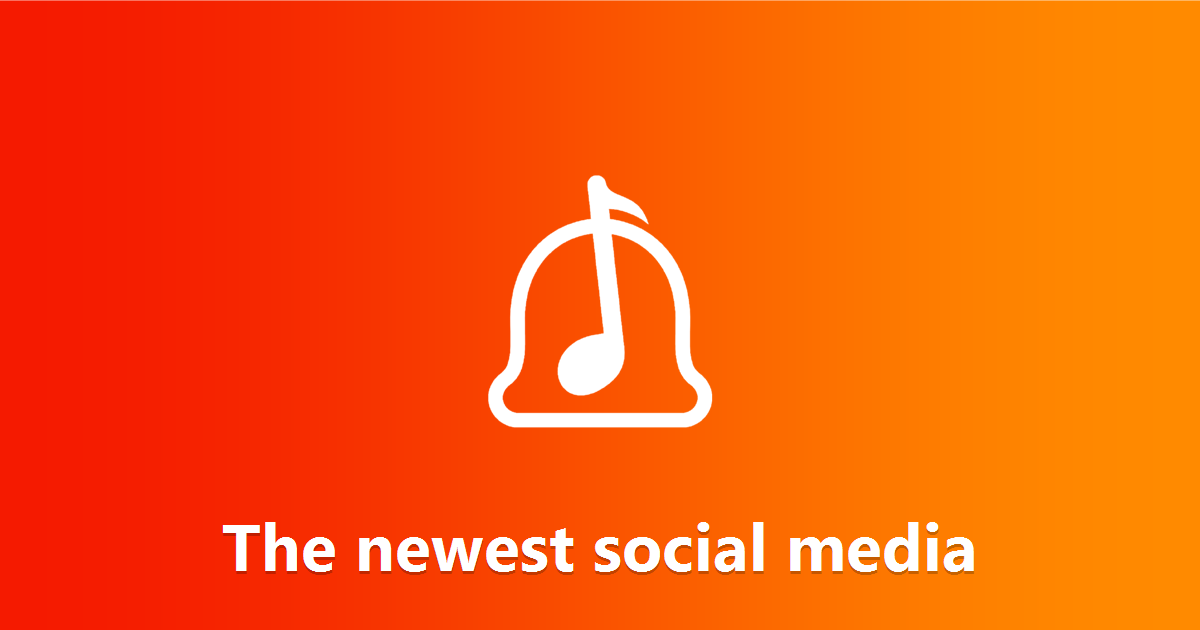
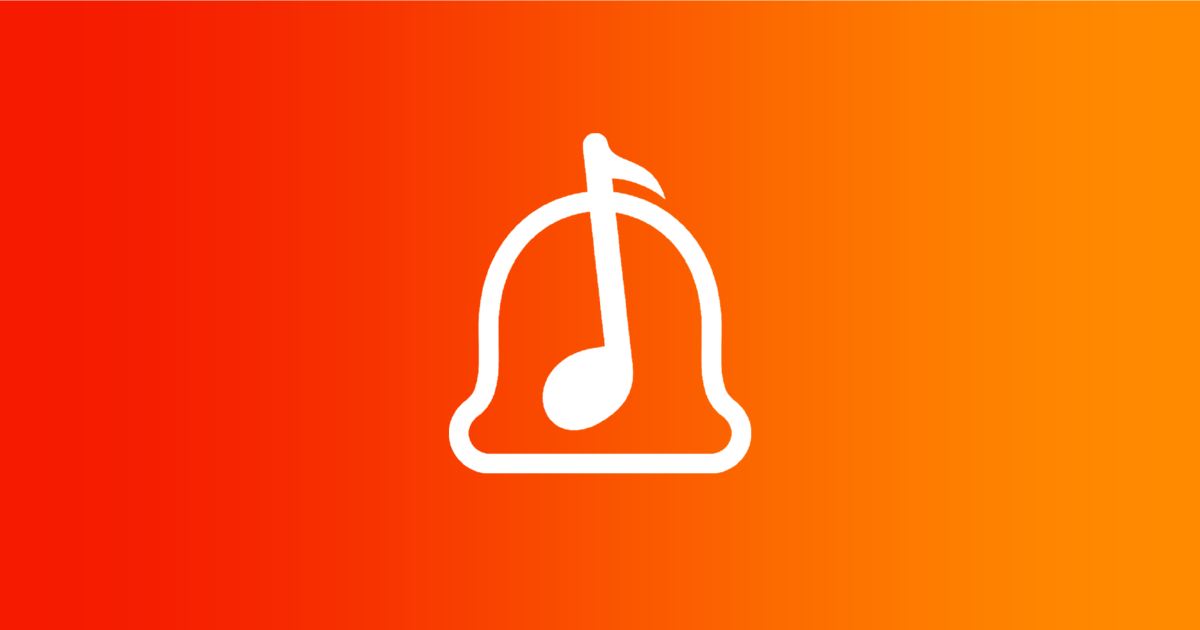
style(invite): the card is the mark on the gradient, nothing else
The tagline baked into the artwork read as an ad, not a brand. It is out
of the image, out of og:description, and out of the landing page.

The card sits in a thread next to Spotify's and Apple Music's, and those
are silent — a slogan inside the picture is what makes it look like a
banner ad instead of an app. The words that need saying are in og:title
("Download Laybell"), which every platform sets in its own type.

Left a DESIGN RULE at the top of the generator so nobody re-adds it.
og:image bumped to ?v=2, since Apple caches the picture as stubbornly as
the card. The generator is now ASCII-only too: an em dash in a string
literal came back mojibake and broke the parse, which is the same
encoding hazard this repo already documents for PowerShell.

Changed region(s): [[0.37, 0.2111, 0.6475, 0.754], [0.185, 0.8143, 0.8325, 0.9349]]

diff --git a/web/invite.html b/web/invite.html
@@ -35,23 +35,23 @@
 <meta property="og:title" content="Download Laybell">
 <meta name="twitter:title" content="Download Laybell">
 
-<!-- Apple ignores this; WhatsApp, Discord and Slack show it. Worth writing. -->
-<meta property="og:description" content="The newest social media. Music and social, together — share songs, videos and moments with the people you actually listen with.">
-<meta name="description" content="The newest social media. Music and social, together — share songs, videos and moments with the people you actually listen with.">
-<meta name="twitter:description" content="The newest social media. Music and social, together — share songs, videos and moments with the people you actually listen with.">
+<!-- Apple ignores this; WhatsApp, Discord and Slack show it. Keep it plain —
+     a slogan here reads as an ad in the clients that DO render it. -->
+<meta property="og:description" content="Music and social, together.">
+<meta name="description" content="Music and social, together.">
+<meta name="twitter:description" content="Music and social, together.">
 
-<!-- The tagline is BAKED INTO THIS IMAGE, and that is on purpose: Apple draws
-     only og:title and the domain, so "The newest social media" could never
-     reach an iPhone as text. In the artwork it always shows.
-     Regenerate after editing the wording — the generator lives at
-     scripts/make-invite-card.ps1 (1200x630, brand gradient, mark + tagline).
-     Bump the ?v= below whenever the picture changes, or Apple keeps serving
-     the cached one. -->
-<meta property="og:image" content="https://laybell.app/invite-card.png?v=1">
+<!-- The mark on the brand gradient. NO TYPE IN THE IMAGE — a tagline was baked
+     in once and it looked like an ad rather than a brand; the card sits beside
+     Spotify's and Apple Music's in the same thread and those are silent. The
+     words live in og:title, set in the platform's own type.
+     Regenerate: scripts/make-invite-card.ps1. Bump ?v= after any change, or
+     Apple keeps serving the cached picture. -->
+<meta property="og:image" content="https://laybell.app/invite-card.png?v=2">
 <meta property="og:image:width" content="1200">
 <meta property="og:image:height" content="630">
-<meta property="og:image:alt" content="Laybell — the newest social media">
-<meta name="twitter:image" content="https://laybell.app/invite-card.png?v=1">
+<meta property="og:image:alt" content="Laybell">
+<meta name="twitter:image" content="https://laybell.app/invite-card.png?v=2">
 
 <!-- Deliberately NO og:site_name: it is what made Apple eat the first words of
      the title. -->
@@ -75,12 +75,12 @@ p { color:var(--muted); margin:0 0 26px; }
 .hint { color:#6f6e78; font-size:13px; margin-top:22px; }
 </style></head>
 <body><main>
-  <!-- Matches the card's headline and tagline: whoever lands here tapped
-       something that said exactly this, and a page that renames itself on
-       arrival reads like a redirect gone wrong. -->
+  <!-- Opens with the card's own headline: whoever lands here tapped something
+       that said exactly this, and a page that renames itself on arrival reads
+       like a redirect gone wrong. -->
   <img class="logo" src="/logo.png" alt="Laybell">
   <h1>Download Laybell</h1>
-  <p id="sub">The newest social media.</p>
+  <p id="sub">Music and social, together.</p>
   <a id="openApp" class="btn btn-primary" href="#">Open Laybell</a>
   <a id="ios" class="btn btn-store" href="#" hidden>Download on the App Store</a>
   <a id="android" class="btn btn-store" href="#" hidden>Get it on Google Play</a>
